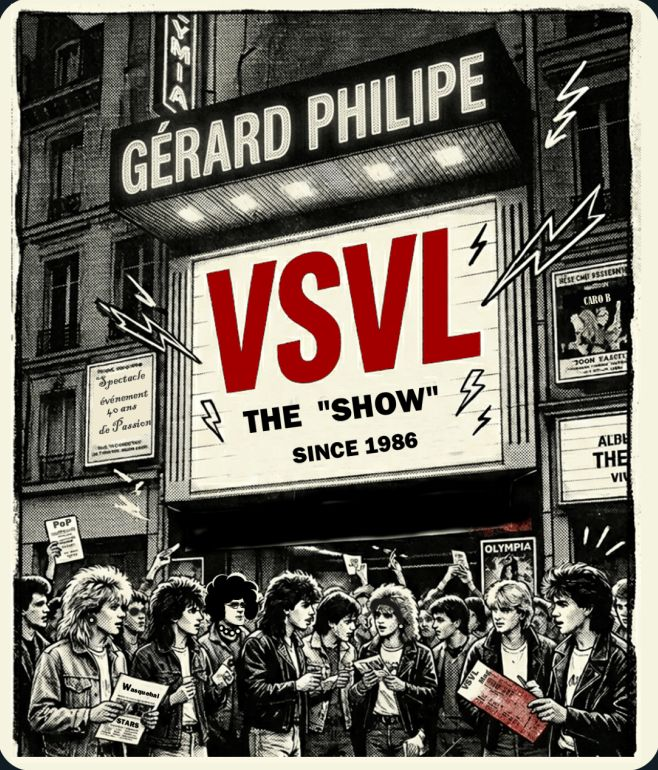
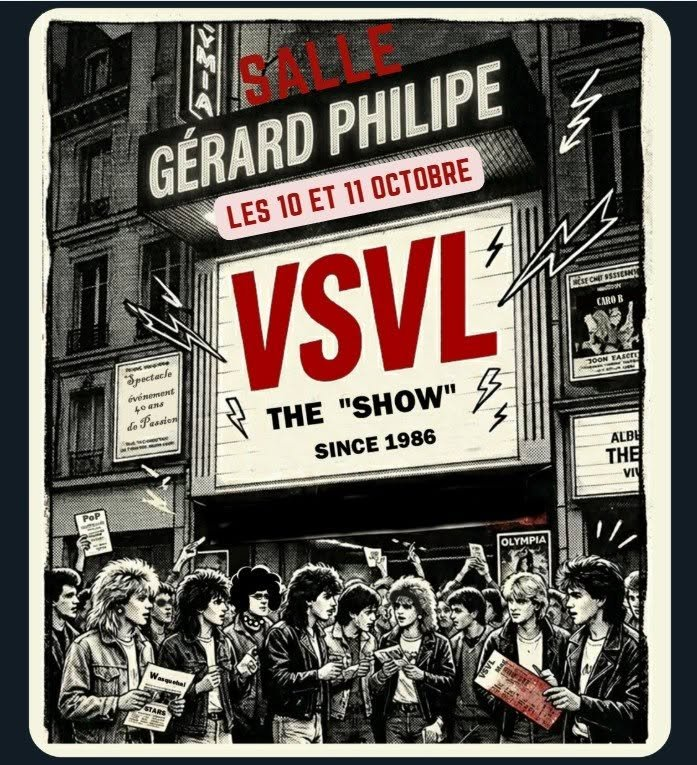
Remplacer l'affiche 2026 par la version complète
Claude-Session: https://claude.ai/code/session_016pBu61gkeuxbPZnZqBxCk7

diff --git a/agenda.html b/agenda.html
@@ -57,7 +57,7 @@
         <div class="galerie affiches">
           <figure>
             <a href="images/affiches/2026.jpg"><img src="images/affiches/2026.jpg" alt="Affiche du spectacle VSVL The Show, 2026" loading="lazy" width="400" height="565"></a>
-            <figcaption><span class="annee">2026</span> <strong>VSVL, The Show — depuis 1986</strong><br>10 et 11 octobre 2026, Espace Gérard Philipe, Wasquehal</figcaption>
+            <figcaption><span class="annee">2026</span> <strong>VSVL, The Show — depuis 1986</strong><br>10 et 11 octobre 2026, salle Gérard Philipe, Wasquehal</figcaption>
           </figure>
           <figure>
             <a href="images/affiches/2025.jpg"><img src="images/affiches/2025.jpg" alt="Affiche du spectacle À contretemps, 2025" loading="lazy" width="400" height="565"></a>
